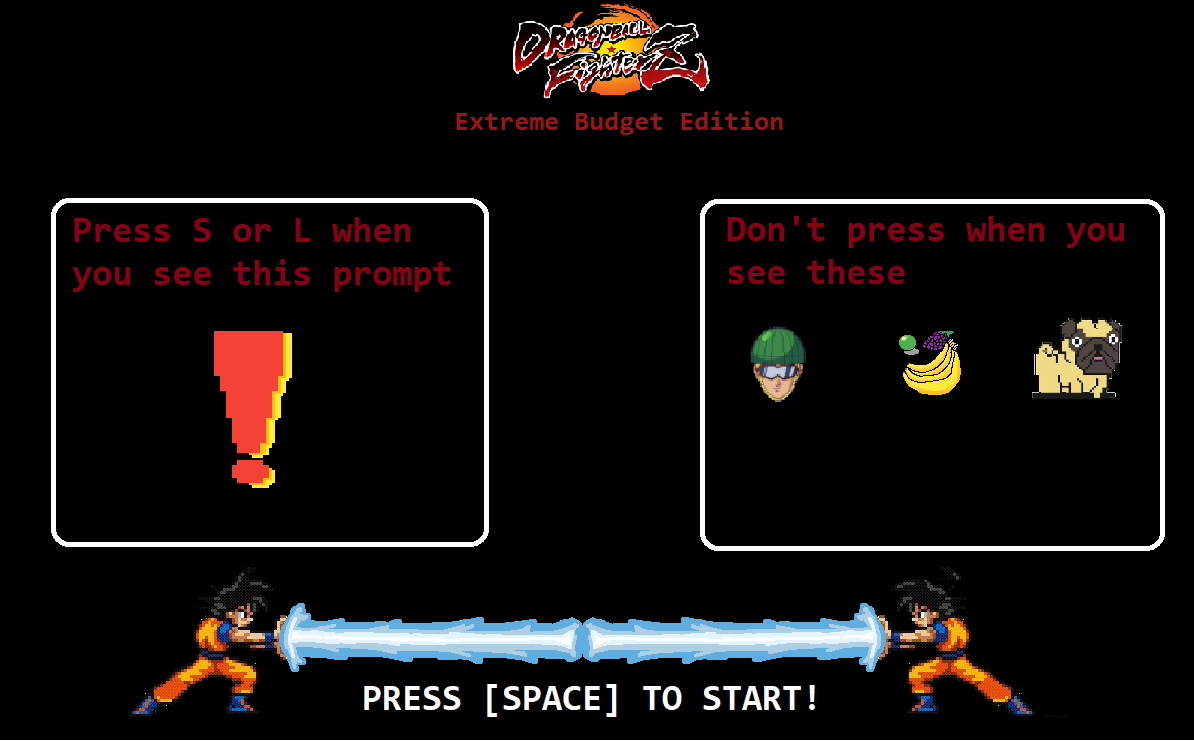
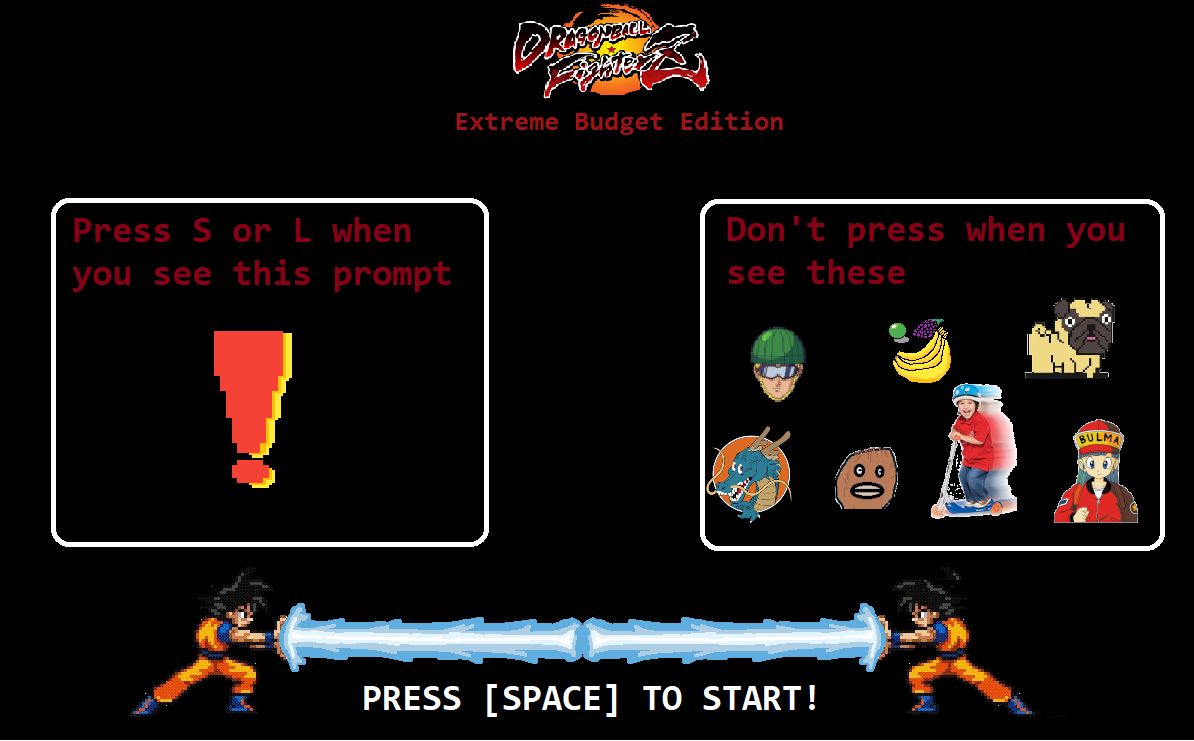
added more fakeouts, edited start screen

Changed region(s): [[0.5888, 0.4035, 0.9606, 0.7139]]

diff --git a/src/constants.js b/src/constants.js
@@ -10,7 +10,7 @@ canvas.height = 740;
 const timerMin = 4000;
 const timerMax = 12000;
 const pauseTime = 5000;
-const fakeoutProb = 100; //Percent Chance of duel timer being a fakeout timer
+const fakeoutProb = 33; //Percent Chance of duel timer being a fakeout timer
 /*-----------------------------------------*/
 
 
@@ -66,7 +66,10 @@ darkenedbackgroundImage.src = '../images/db-background-2.png';
 backgroundImage.src = '../images/db-background.png';
 
 let images = [  '../images/mumen_face_64px.png', 
-                '../images/fruit_fakeout.png', 
+                '../images/makarider.png', 
                 '../images/pixel_dog.png', 
-                '../images/saw_monkey.png']
+                '../images/saw_monkey.png', 
+                '../images/fruit_fakeout.png',
+                '../images/shenlong.png',
+                '../images/bulma.png']
 /*---------------------------------------------------------*/

diff --git a/src/index.js b/src/index.js
@@ -128,7 +128,7 @@ function gameloop() {
 
 function setRandomFakeoutPicture(){
     let outcome = Math.floor(Math.random(Date.now()) * 100);
-    fakeOutPromptImage.src = images[outcome % (images.length - 1)];
+    fakeOutPromptImage.src = images[outcome % (images.length)];
 }
 
 function startNewDuelTimer(){
